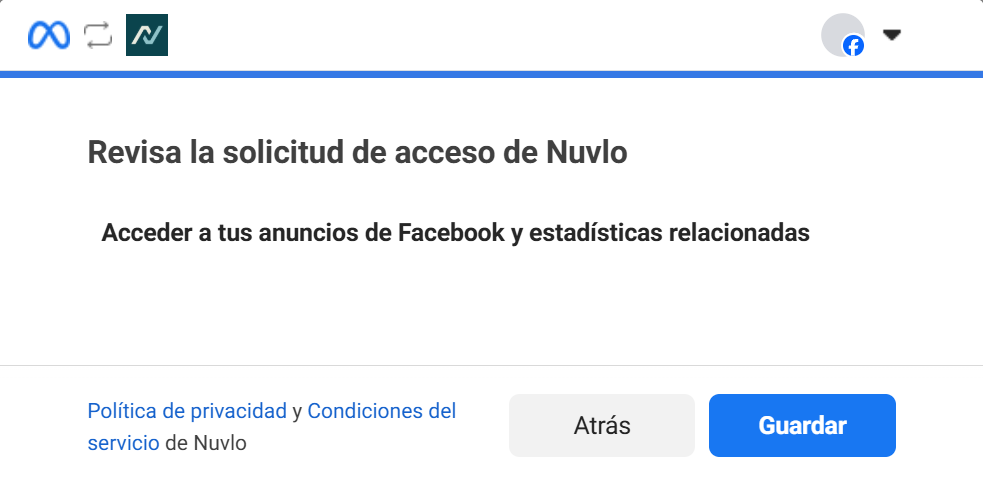
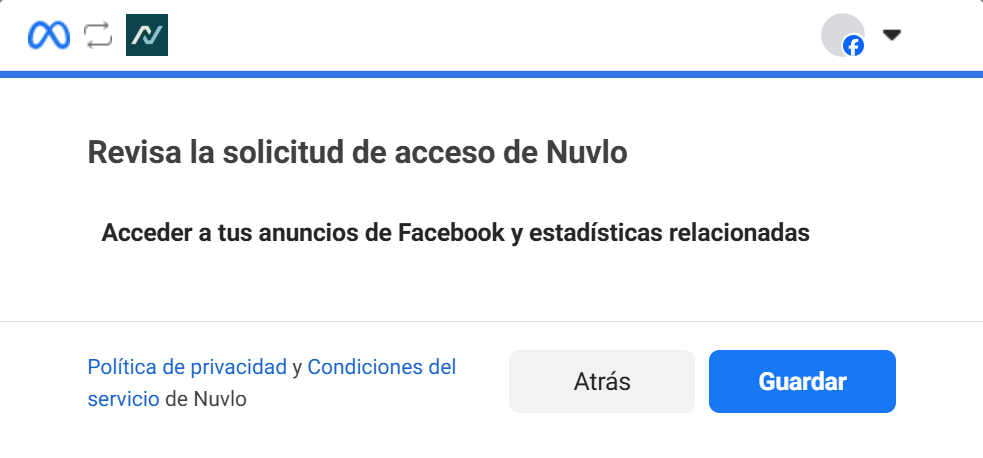
fix: el permiso, legible en teléfono y con el azul de Meta en su lugar
Lo que dejó la segunda crítica de #permiso (25/32), aplicado entero:

- En teléfono, un recorte propio de la captura —barra, título y permiso,
  sin el pie de Meta ni el avatar— servido con <picture>, y la ventana casi
  al canto del panel: el renglón del permiso pasa de 7px ilegibles a leerse.
- El campo termina en el puente entre petróleo y azul; el azul de Meta
  pleno queda sólo en el halo, detrás de la cita.
- El pie dice qué pasa si se quita el acceso y cierra con el dato de la
  revisión de Meta, no con la salida.
- Bajada y pie al 92 % de hoja: el peor punto sobre el degradé pasa de
  3,27:1 a 5,29:1.
- Menos blanco bajo el permiso y, apilado, el titular antes que la cita.

Y una corrección de hecho: la captura es la pantalla de revisar el acceso,
no la de conectar; la bajada ahora lo dice así. PRODUCT.md, DESIGN.md y el
brief lo registran.

diff --git a/components/iris/Permiso.tsx b/components/iris/Permiso.tsx
@@ -1,8 +1,7 @@
-import Image from "next/image";
 import { Entra } from "./Entra";
 
 /**
- * EL PERMISO — la autorización real de Meta, recortada (24/09/2026).
+ * EL PERMISO — la pantalla real de Meta, recortada (24/09/2026).
  *
  * ── DE DÓNDE VIENE ─────────────────────────────────────────────────────────
  * Fue un diodo con sello («parece de un estudio jurídico»), una tarjeta de
@@ -11,30 +10,39 @@ import { Entra } from "./Entra";
  * captura real, recortada: la réplica era más limpia pero dejaba de ser
  * Meta, y lo que convence al trafficker escéptico es justamente que lo sea.
  *
- * ── EL RECORTE ─────────────────────────────────────────────────────────────
- * `public/meta/autorizacion-nuvlo.png`, 983×502, sale de la captura de 991×1182
- * que aportó el dueño con el zoom del navegador al 175 % (al 200 % la ventana
- * no entraba en la pantalla), con tres cambios y nada más:
- * - se sacó el blanco del medio: la parte de arriba llega hasta 70px debajo
- *   del permiso (y=321) y la de abajo arranca 49px antes de la línea del pie
- *   (y=992) —los 40 y 28 de la primera captura, a 1,75—. Entre esas dos filas
- *   no hay un solo píxel que no sea blanco, así que la unión no se ve;
- * - se recortó el canto gris de la ventana (4px a los lados, 5 arriba, 4
- *   abajo): el borde lo pone la sombra de la página;
- * - la foto de perfil de quien autorizó es un círculo gris neutro, porque es
- *   un dato personal en una página pública.
+ * ── QUÉ PANTALLA ES ────────────────────────────────────────────────────────
+ * La de REVISAR el acceso de Nuvlo —por eso el botón dice «Guardar»—, no la
+ * de la primera conexión (confirmado por el dueño, 25/09/2026). La bajada lo
+ * dice así y no «al conectar»: una cita que se presenta como otro momento
+ * del flujo deja de ser exacta aunque la imagen sea real.
  *
- * Se muestra a 562×287 —la medida de siempre—, así que lleva 1,75 píxeles por
- * píxel de pantalla. La primera era 1x y se ablandaba en cualquier pantalla
- * densa. Si algún día llega una a 2x, se cambia el archivo y nada más: las
- * medidas de acá son las de pantalla, no las del archivo.
+ * ── LOS DOS RECORTES ───────────────────────────────────────────────────────
+ * Salen de la captura de 991×1182 que aportó el dueño con el zoom del
+ * navegador al 175 % (al 200 % la ventana no entraba). En los dos, la foto de
+ * perfil de quien autorizó queda fuera: es un dato personal en una página
+ * pública.
+ * - `autorizacion-nuvlo.png`, 983×458, para pantallas anchas: la ventana
+ *   entera sin el blanco del medio. Arriba llega hasta 40px debajo del
+ *   permiso (y=291) y abajo arranca 35px antes de la línea del pie (y=1006);
+ *   entre esas filas no hay un píxel que no sea blanco, así que la unión no se
+ *   ve. Sin el canto gris (4px a los lados, 5 arriba, 4 abajo), y la foto,
+ *   tapada por un círculo gris. Se muestra a 562×262: 1,75 píxeles por píxel.
+ * - `autorizacion-nuvlo-movil.png`, 901×286, para teléfono: sólo la barra, el
+ *   título y el permiso. A 287px de ancho la ventana entera dejaba el renglón
+ *   del permiso en 7px —la prueba se veía como una forma— y «Guardar» se
+ *   ofrecía para tocar sin hacer nada. Sin el pie de Meta el mismo ancho
+ *   alcanza para leerlo. El avatar y su flecha se pintaron de blanco para
+ *   poder cortar a margen parejo del texto (x=905).
  *
  * ── LO QUE SE AFIRMA ───────────────────────────────────────────────────────
  * - `ads_read` es el ÚNICO permiso que pide el panel (`META_SCOPES` en
  *   `nuvlo-panel/src/lib/meta.ts`), y Meta lo muestra como ese solo renglón.
  *   Si el arreglo cambia, la captura y el texto mienten a la vez.
+ * - Quitar el acceso deja a Nuvlo sin poder leer la cuenta y no cambia nada
+ *   en Meta: `ads_read` no escribe, así que no hay nada que deshacer.
  * - La revisión de apps de Meta la afirma el dueño (`PRODUCT.md`) y va como
- *   dato, sin logo ni «aval».
+ *   dato, sin logo ni «aval». Va al final del pie: el último renglón es de
+ *   confianza, no la salida.
  * - El enlace va a la ayuda de Meta sobre cómo quitar integraciones: abre sin
  *   sesión y en castellano.
  */
@@ -56,13 +64,16 @@ export function Permiso() {
               <span className="i-permiso-frase">No las toca.</span>
             </h2>
             <p className="i-bajada i-cabeza-bajada">
-              Es lo que Meta muestra al conectar la cuenta: Nuvlo pide un solo
-              permiso,{" "}
+              Es la pantalla de Meta donde se revisa el acceso de Nuvlo: un solo
+              permiso, de sólo lectura,{" "}
               <code className="i-permiso-codigo">ads_read</code>. No puede crear,
               editar ni pausar campañas, ni cambiar presupuestos.
             </p>
             <div className="i-permiso-pie">
-              <p>Nuvlo pasó la revisión de apps de Meta para ese permiso.</p>
+              <p>
+                Si se quita el acceso, Nuvlo deja de leer la cuenta y en Meta no
+                cambia nada.
+              </p>
               <a
                 className="i-permiso-enlace"
                 href={AYUDA_INTEGRACIONES}
@@ -76,6 +87,9 @@ export function Permiso() {
                 </span>
                 <span className="i-solo-lectores"> (se abre en otra pestaña)</span>
               </a>
+              <p className="i-permiso-revision">
+                Nuvlo pasó la revisión de apps de Meta para ese permiso.
+              </p>
             </div>
           </Entra>
 
@@ -84,16 +98,27 @@ export function Permiso() {
                 Elemento y no pseudo (*La Regla del Pseudo-elemento
                 Compartido*). */}
             <div className="i-permiso-halo" aria-hidden="true" />
-            {/* `unoptimized`: `next/image` la recomprimiría a WebP q75, y en
-                una captura de interfaz eso deja halos en cada letra. */}
-            <Image
-              className="i-permiso-ventana"
-              src="/meta/autorizacion-nuvlo.png"
-              width={562}
-              height={287}
-              unoptimized
-              alt="Pantalla de autorización de Meta: «Revisa la solicitud de acceso de Nuvlo», con un único permiso, «Acceder a tus anuncios de Facebook y estadísticas relacionadas», y los botones Atrás y Guardar."
-            />
+            {/* `<picture>` y no `next/image`: hay dos recortes distintos, no el
+                mismo a dos tamaños, y `next/image` sólo sabe de lo segundo. Sin
+                recompresión, que en una captura de interfaz deja halos en cada
+                letra. Los `width`/`height` de cada uno reservan su proporción. */}
+            <picture>
+              <source
+                media="(max-width: 767px)"
+                srcSet="/meta/autorizacion-nuvlo-movil.png"
+                width={901}
+                height={286}
+              />
+              <img
+                className="i-permiso-ventana"
+                src="/meta/autorizacion-nuvlo.png"
+                width={983}
+                height={458}
+                loading="lazy"
+                decoding="async"
+                alt="Pantalla de Meta para revisar el acceso de Nuvlo: «Revisa la solicitud de acceso de Nuvlo», con un único permiso, «Acceder a tus anuncios de Facebook y estadísticas relacionadas»."
+              />
+            </picture>
           </Entra>
         </div>
       </div>

diff --git a/app/estilos/secciones.css b/app/estilos/secciones.css
@@ -7590,14 +7590,21 @@ body[data-barra-control] .i-atajo {
   border-radius: var(--radius-bandeja);
   overflow: hidden;
   color: var(--color-hoja);
-  /* Apilado, la ventana va arriba: el azul arriba y el petróleo abajo, donde
-     está el título. */
+  /* ── EL AZUL PLENO, SÓLO EN EL HALO (dueño, 25/09/2026) ─────────────────
+     El campo llegaba al azul de Meta puro en su borde, y en escritorio eso
+     era un tercio del panel en el color de otra empresa, lejos de la
+     ventana: se podía leer como un anuncio de Meta o un aval, que es
+     justo lo que `PRODUCT.md` prohíbe insinuar. Ahora termina en el
+     `--puente` —la mitad entre los dos— y el azul pleno vive sólo en el
+     halo, detrás de la cita, que es donde tiene derecho a estar.
+
+     Apilado, el título va arriba y la ventana abajo: petróleo arriba y el
+     puente abajo, donde está la cita. */
   background: linear-gradient(
     180deg,
-    var(--azul-meta) 0%,
-    var(--puente) 42%,
-    var(--color-acento) 70%,
-    var(--petroleo-hondo) 100%
+    var(--petroleo-hondo) 0%,
+    var(--color-acento) 45%,
+    var(--puente) 100%
   );
 }
 
@@ -7614,9 +7621,8 @@ body[data-barra-control] .i-atajo {
     background: linear-gradient(
       100deg,
       var(--petroleo-hondo) 0%,
-      var(--color-acento) 32%,
-      var(--puente) 62%,
-      var(--azul-meta) 100%
+      var(--color-acento) 38%,
+      var(--puente) 100%
     );
   }
 }
@@ -7626,19 +7632,21 @@ body[data-barra-control] .i-atajo {
   z-index: 2;
 }
 
-/* Apilado, la ventana primero: el cable baja de ella al título, que es la
-   dirección del dato. */
+/* Apilado, el título primero y la cita después: la afirmación y su prueba.
+   Estuvo al revés mientras un cable bajaba de la ventana al título, y sin el
+   cable el visitante veía primero una pantalla que no leía. */
 .i-permiso-escena {
   position: relative;
   z-index: 2;
-  order: -1;
   display: flex;
   justify-content: center;
 }
 
-@media (min-width: 1200px) {
+/* En teléfono la cita llega hasta el canto del panel: cada píxel de ancho es
+   tamaño de letra en el renglón del permiso. */
+@media (max-width: 767px) {
   .i-permiso-escena {
-    order: 0;
+    margin-inline: calc(-1 * clamp(24px, 5vw, 72px) + 12px);
   }
 }
 
@@ -7650,8 +7658,11 @@ body[data-barra-control] .i-atajo {
   display: block;
 }
 
+/* 92 % y no 84 (25/09/2026): medido píxel a píxel sobre el degradé, al 84 %
+   el pie bajaba a 3,27:1 en su punto más claro y la bajada a 4,41 en el
+   peor 5 % a 390. */
 .i-permiso-panel .i-bajada {
-  color: color-mix(in srgb, var(--color-hoja) 84%, transparent);
+  color: color-mix(in srgb, var(--color-hoja) 92%, transparent);
 }
 
 .i-permiso-codigo {
@@ -7672,11 +7683,17 @@ body[data-barra-control] .i-atajo {
   border-top: 1px solid color-mix(in srgb, var(--color-hoja) 24%, transparent);
   font-size: 0.9375rem;
   line-height: 1.5;
-  color: color-mix(in srgb, var(--color-hoja) 84%, transparent);
+  color: color-mix(in srgb, var(--color-hoja) 92%, transparent);
 }
 
 .i-permiso-pie p {
   margin: 0;
+}
+
+/* El dato de la revisión cierra el pie, un poco separado del enlace: el
+   último renglón es de confianza, no la salida. */
+.i-permiso-pie .i-permiso-revision {
+  margin-top: 8px;
 }
 
 /* El enlace en hoja y no en `acento-sobre-noche`: sobre el petróleo del campo
@@ -7715,7 +7732,8 @@ body[data-barra-control] .i-atajo {
 
 /* ── LA VENTANA: LA CAPTURA REAL, RECORTADA ───────────────────────────────
    Es la autorización de Meta tal cual, sin el blanco del medio ni el canto
-   gris (el recorte está explicado en `Permiso.tsx`). Una cita no se retiña:
+   gris, y en teléfono un recorte propio con sólo la barra, el título y el
+   permiso (los dos están explicados en `Permiso.tsx`). Una cita no se retiña:
    el radio y la sombra honda son lo único que le pone la página, y son lo que
    la despega del campo como una ventana y no como un rectángulo pegado. Nunca
    más ancha que 562px: el archivo trae 1,75 píxeles por cada uno de esos, y

diff --git a/DESIGN.md b/DESIGN.md
@@ -3332,36 +3332,51 @@ la sección de 1249 a 1119 (de 1644 a 1515 en móvil).
 ### El permiso (composición, 24/09/2026)
 
 Entre El entregable y Precios, `components/iris/Permiso.tsx`. Dice una cosa —Nuvlo lee las
-campañas y no las toca— y la prueba con **la pantalla que Meta le muestra al trafficker al
-conectar**, no con un objeto nuestro.
+campañas y no las toca— y la prueba con **la pantalla de Meta donde se revisa el acceso de
+Nuvlo**, no con un objeto nuestro.
 
-- **El campo**: un panel del ancho de la columna, en `--radius-bandeja`, que va del **azul de
-  Meta** alrededor de la ventana al **petróleo de Nuvlo** del lado del título. Los intermedios
-  salen de `color-mix` entre los dos, así no hay un tercer color. Es la única superficie de
-  color saturado de la parte clara, y se justifica porque carga el argumento: de quién es cada
-  lado se lee en el color antes que en el texto. Apilado, el azul arriba (la ventana) y el
-  petróleo abajo (el título).
+- **El campo**: un panel del ancho de la columna, en `--radius-bandeja`, que va del **petróleo
+  de Nuvlo** del lado del título al **`--puente`** —la mitad entre el petróleo y el azul de
+  Meta— del lado de la ventana. Los tonos salen de `color-mix` entre los dos, así no hay un
+  tercer color. Es la única superficie de color saturado de la parte clara, y se justifica
+  porque carga el argumento: de quién es cada lado se lee en el color antes que en el texto.
+  Apilado, el petróleo arriba (el título) y el puente abajo (la ventana).
 - **El azul de Meta** (`--azul-meta`, `#1877f2`, en `base.css`) está muestreado del botón
   «Guardar» de la captura, no de un manual de marca. **Es la única excepción de color de la
-  página fuera del sistema**, y vive sólo en este campo y su halo: fuera de la cita, un azul de
-  Meta sería vestirse de Meta. Escenario, no sistema: no cruza al panel.
-- **La ventana**: la captura real de la autorización (`public/meta/autorizacion-nuvlo.png`,
-  983×502, sacada con el zoom del navegador al 175 %), recortada —sin el blanco del medio ni el
-  canto gris— y con la foto de perfil tapada por un círculo gris. Se muestra a 562×287 y nunca
-  más grande, así que lleva 1,75 píxeles por píxel de pantalla, con radio de 12 y la sombra
-  honda de lo que flota; es lo único que la página le pone. Un halo azul la rodea. **La primera
-  captura era 1x y se ablandaba en cualquier pantalla densa (25/09/2026)**: una cita de
-  interfaz es casi toda texto, y el texto es lo primero que delata la falta de píxeles.
+  página fuera del sistema, y el pleno vive sólo en el halo, detrás de la ventana** (dueño,
+  25/09/2026). El campo llegó a terminar en azul pleno en su borde, y en escritorio eso era un
+  tercio del panel en el color de otra empresa, lejos de la cita: se podía leer como un anuncio
+  de Meta o un aval. Fuera de la cita, un azul de Meta es vestirse de Meta. Escenario, no
+  sistema: no cruza al panel.
+- **La ventana**: la captura real de la pantalla donde se REVISA el acceso —no la de la primera
+  conexión—, sacada con el zoom del navegador al 175 %. Dos recortes, servidos con `<picture>`:
+  - **Ancho** (`autorizacion-nuvlo.png`, 983×458): la ventana entera sin el blanco del medio
+    ni el canto gris, con la foto de perfil tapada. Se muestra a 562×262 y nunca más grande
+    —1,75 píxeles por píxel—.
+  - **Teléfono** (`autorizacion-nuvlo-movil.png`, 901×286): sólo la barra, el título y el
+    permiso, sin el pie de Meta y sin el avatar, y la ventana llega casi al canto del panel. A
+    287px la ventana entera dejaba el renglón del permiso en 7px —la prueba se veía como una
+    forma— y ofrecía un «Guardar» azul para tocar que no hacía nada. Ahora mide 326px y el
+    renglón se lee.
+
+  Radio de 12 y la sombra honda de lo que flota: es lo único que la página le pone. Un halo
+  azul la rodea. **La primera captura era 1x y se ablandaba en cualquier pantalla densa**: una
+  cita de interfaz es casi toda texto, y el texto es lo primero que delata la falta de píxeles.
 - **Texto sobre el campo**: titular en hoja, «Lee las campañas. / No las toca.», una oración por
-  renglón; bajada con `ads_read` en una pastilla de hoja al 16 %; un filete, el dato de la
-  revisión de Meta y el enlace a la ayuda de Meta para quitar el acceso. **El enlace va en hoja
-  subrayado y no en `acento-sobre-noche`**: ese celeste da 3,8:1 sobre el petróleo y un enlace de
-  15px pide 4,5. El anillo de foco del panel es hoja.
+  renglón; bajada que presenta la pantalla como la de revisar el acceso, con `ads_read` en una
+  pastilla de hoja al 16 %; un filete y el pie, en este orden: qué pasa si se quita el acceso,
+  el enlace a la ayuda de Meta y, al final, el dato de la revisión de Meta —el último renglón es
+  de confianza, no la salida—. Bajada y pie en hoja al **92 %**: al 84 % el pie bajaba a 3,27:1
+  en el punto más claro del degradé; medido píxel a píxel después del cambio, el peor punto es
+  5,29:1. **El enlace va en hoja subrayado y no en `acento-sobre-noche`**: ese celeste da 3,8:1
+  sobre el petróleo y un enlace de 15px pide 4,5. El anillo de foco del panel es hoja.
 - **Movimiento**: uno solo. La ventana sube desde el campo (48px, escala 0,94) mientras el halo
   se enciende: el azul nace de la ventana. La escena anula la entrada genérica de `Entra` para
   hacer la suya. Con movimiento reducido aparece puesta.
-- **Umbral**: en fila desde 1200. A 1024 la captura bajaba a 404px y el texto de Meta no se
-  leía; apilada va a 562.
+- **Umbral y orden**: en fila desde 1200. A 1024 la captura bajaba a 404px y el texto de Meta no
+  se leía. Apilada, **el titular va primero y la cita después**: la afirmación y su prueba.
+  Estuvo al revés mientras un cable bajaba de la ventana al título, y sin el cable el visitante
+  veía primero una pantalla que no leía.
 
 **El camino, en una tarde (24/09/2026), porque cada paso dejó una regla:**
 
@@ -3380,6 +3395,10 @@ conectar**, no con un objeto nuestro.
 5. **Una réplica en HTML** de la ventana: **«perdió calidad»**. Era más limpia y dejaba de ser
    Meta, que es justo lo que convence.
 6. **La captura real, recortada**, que es lo que hay.
+7. **La segunda crítica (25/09/2026, 25/32)** dejó cinco ajustes y el dueño pidió todos: el
+   recorte de teléfono, el azul pleno sólo en el halo, la línea de qué pasa si se quita el
+   acceso, el contraste del pie y el orden apilado. Y una corrección de fondo: la pantalla es la
+   de revisar el acceso, no la de conectar, y el texto decía lo segundo.
 
 ### Preguntas (composición, 17/09/2026)
 La única sección sin objeto, y **la única sin bloque de las tres claras**: las nueve respuestas

diff --git a/PRODUCT.md b/PRODUCT.md
@@ -392,13 +392,21 @@ Lo que no puede decir: que Meta aprobó, avaló o certificó a Nuvlo, ni nada qu
 sello suyo. **Si `META_SCOPES` cambia, `#permiso` miente**: se revisa en la misma tanda.
 
 **La prueba es la pantalla de Meta, citada (decisión del dueño, 24/09/2026).** La sección
-muestra la captura real de la autorización que el dueño aportó: «Revisa la solicitud de acceso
-de Nuvlo» con un solo renglón, «Acceder a tus anuncios de Facebook y estadísticas
-relacionadas». El logo de Meta aparece **sólo porque está en esa interfaz real**; el sitio no
-agrega logos ni sellos de Meta en ningún otro lado, y el pie ya dice que Nuvlo no está afiliado
-a Meta Platforms. De la captura se sacó únicamente lo que no dice nada —el blanco del medio— y
-**la foto de perfil de quien autorizó, que es un dato personal y se tapó con un círculo gris**.
-Si Meta cambia esa pantalla, se vuelve a capturar.
+muestra la captura real que el dueño aportó: «Revisa la solicitud de acceso de Nuvlo» con un
+solo renglón, «Acceder a tus anuncios de Facebook y estadísticas relacionadas». **Es la
+pantalla de REVISAR el acceso, no la de la primera conexión** —por eso dice «Guardar»—
+(confirmado por el dueño, 25/09/2026), y el texto la presenta así: «la pantalla de Meta donde
+se revisa el acceso de Nuvlo». Decir «lo que Meta muestra al conectar» sería presentar la cita
+como otro momento del flujo. El logo de Meta aparece **sólo porque está en esa interfaz
+real**; el sitio no agrega logos ni sellos de Meta en ningún otro lado, y el pie ya dice que
+Nuvlo no está afiliado a Meta Platforms. De la captura se sacó únicamente lo que no dice nada
+—el blanco del medio y, en la versión de teléfono, el pie de Meta— y **la foto de perfil de
+quien autorizó, que es un dato personal y no se publica**. Si Meta cambia esa pantalla, se
+vuelve a capturar.
+
+**Lo que pasa si se quita el acceso, y se dice (25/09/2026):** Nuvlo deja de poder leer la
+cuenta y en Meta no cambia nada. Es verdad por construcción —`ads_read` no escribe, así que no
+hay nada que deshacer— y era la mitad del miedo del trafficker que la sección no contestaba.
 
 El enlace de la sección va a la ayuda de Meta sobre cómo quitar integraciones comerciales
 (`facebook.com/help/405094243235242`): abre sin sesión y en castellano. El enlace directo a la

diff --git a/.impeccable/surfaces/app-page-tsx.md b/.impeccable/surfaces/app-page-tsx.md
@@ -2342,6 +2342,24 @@ En teléfono el texto de Meta es chico (la ventana mide unos 300px) pero ya no b
 misma tanda la bajada perdió un tuteo que se le había escapado a la pasada a español neutro:
 «Es lo que Meta muestra al conectar la cuenta».
 
+**Segunda crítica (25/09/2026, 25/32, dual-agent; la primera fue 18/32).** Cinco ajustes, y el
+dueño pidió todos:
+
+- **P1, teléfono:** a 287px el renglón del permiso quedaba en 7px. Ahora hay un recorte propio
+  (`autorizacion-nuvlo-movil.png`, 901×286: barra, título y permiso, sin el pie de Meta ni el
+  avatar) servido con `<picture>`, y la ventana llega casi al canto del panel: 326px, densidad
+  2,76.
+- **P2, azul:** el campo termina en el puente y el azul pleno queda sólo en el halo.
+- **P2, qué pasa si se quita:** «Si se quita el acceso, Nuvlo deja de leer la cuenta y en Meta no
+  cambia nada.»
+- **P3, contraste:** bajada y pie al 92 % de hoja; el peor punto medido es 5,29:1 (era 3,27).
+- **P3, blanco y pie:** 40px de pantalla bajo el permiso en vez de 68, y el pie cierra con el
+  dato de la revisión y no con la salida. Apilado, el titular va primero.
+
+**Y una corrección de hecho:** la captura es la pantalla de REVISAR el acceso —por eso dice
+«Guardar»—, no la de la primera conexión. La bajada decía «al conectar la cuenta»; ahora dice
+«la pantalla de Meta donde se revisa el acceso de Nuvlo».
+
 ## Lo que quedó sin resolver
 
 > **Auditada entera el 19/09/2026, y el resultado obliga a leerla con desconfianza.** De las
